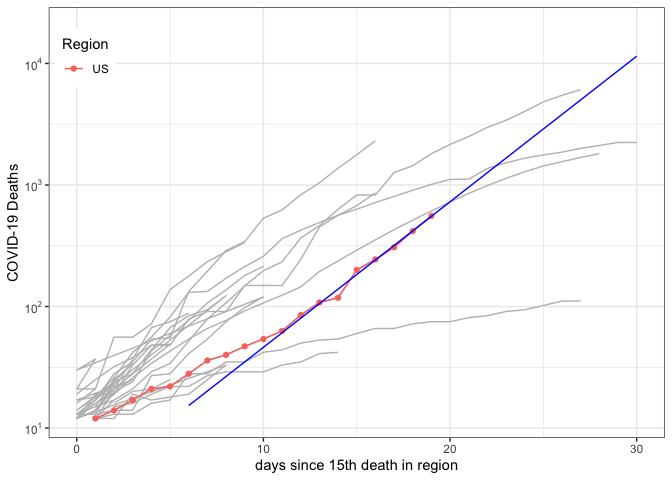
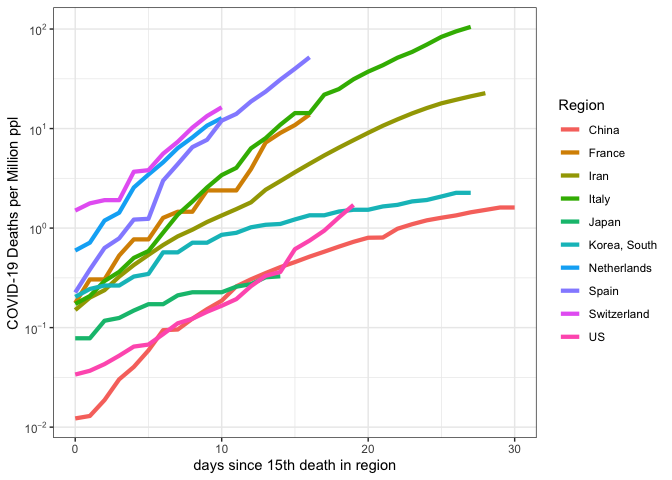
add figure with deaths per population of region

diff --git a/README.md b/README.md
@@ -139,9 +139,6 @@ moment:
 ![](README_files/figure-gfm/unnamed-chunk-14-1.png)<!-- -->
 
 Renormalizing the start dates for `recorded deaths`, we find the dates
-when the `5th death` was recorded in each country:
-
-Renormalizing the start dates for `recorded deaths`, we find the dates
 when the `10th death` was recorded in each country:
 
 |    | Country        | Start |
@@ -175,8 +172,12 @@ when the `10th death` was recorded in each country:
 | 12 | India          |    38 |
 | 20 | Norway         |    38 |
 
-![](README_files/figure-gfm/unnamed-chunk-18-1.png)<!-- -->
+![](README_files/figure-gfm/unnamed-chunk-17-1.png)<!-- -->
 
 Trying to add a fit line:
+
+![](README_files/figure-gfm/unnamed-chunk-18-1.png)<!-- -->
+
+Renormalize by population:
 
 ![](README_files/figure-gfm/unnamed-chunk-19-1.png)<!-- -->
